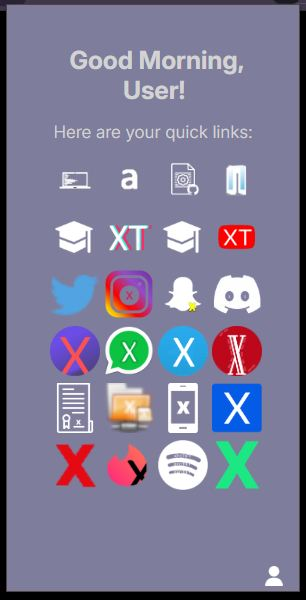
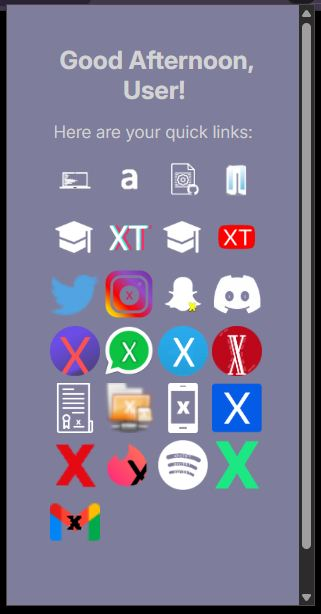
Incoming!
Something new is coming soon, watch out.

diff --git a/Unpacked/xLinks/index.html b/Unpacked/xLinks/index.html
@@ -194,6 +194,11 @@
     <th>
         <a href="https://l-xdt.github.io/xulu/" target="_blank"><img src="https://imgur.com/UEhoaNV.png"></a>
     </th>
+    </tr>
+    <tr>
+        <th>
+        <a href="https://l-xdt.github.io/xmail/" target="_blank"><img src="https://imgur.com/wmlSVQg.png"></a>
+    </th>
 </tr>
 
         </table>
